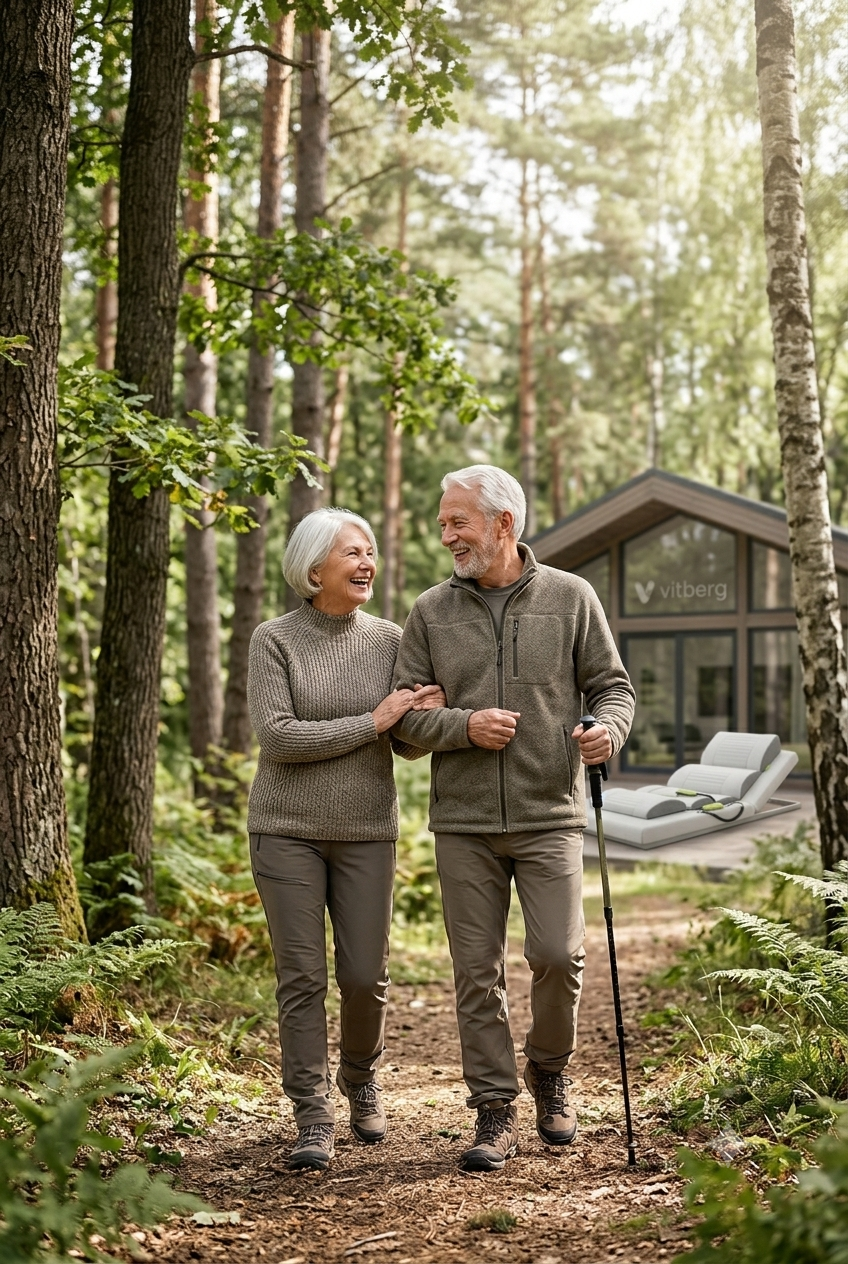
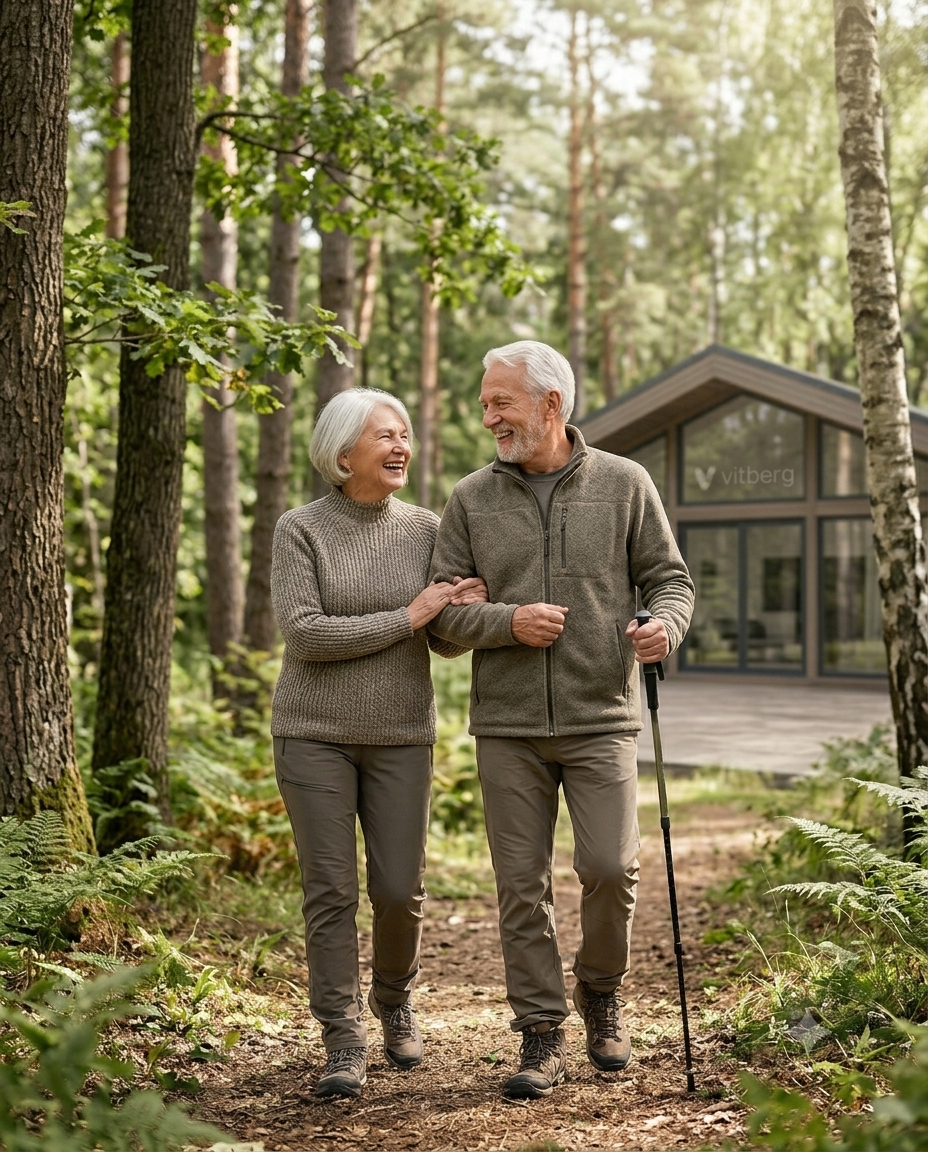
add images

diff --git a/src/components/home/why-section.tsx b/src/components/home/why-section.tsx
@@ -1,3 +1,4 @@
+import Image from "next/image";
 import {
   Award,
   BadgeCheck,
@@ -24,12 +25,14 @@ export function WhySection() {
   return (
     <section id="dlaczego-warto" className="py-16 md:py-20">
       <div className="mx-auto grid max-w-6xl items-center gap-12 px-4 lg:grid-cols-2 lg:px-6">
-        <div className="relative aspect-[4/5] overflow-hidden rounded-3xl bg-secondary ring-1 ring-primary/20">
-          <div className="absolute inset-0 flex items-center justify-center bg-gradient-to-br from-secondary to-primary/10">
-            <p className="max-w-xs px-6 text-center text-base font-medium text-muted-foreground">
-              Zdjęcie: aktywna para seniorów ciesząca się życiem
-            </p>
-          </div>
+        <div className="relative aspect-4/5 overflow-hidden rounded-xl bg-secondary ring-1 ring-primary/20">
+          <Image
+            src="/images/active_seniors.png"
+            alt="Aktywna para seniorów ciesząca się życiem"
+            fill
+            sizes="(max-width: 1024px) 100vw, 528px"
+            className="object-cover"
+          />
         </div>
 
         <div>

diff --git a/src/components/home/hero-section.tsx b/src/components/home/hero-section.tsx
@@ -26,10 +26,10 @@ export function HeroSection() {
       <div className="relative z-10 mx-auto flex min-h-[min(90vh,800px)] max-w-6xl items-center px-4 py-16 lg:px-6 lg:py-24">
         <div className="max-w-xl space-y-6 md:max-w-2xl">
           <h1 className="font-heading text-3xl font-extrabold leading-tight tracking-wide text-primary uppercase md:text-4xl lg:text-5xl">
-            Bezpłatna wibroterapia w Chełmie.
+            Bezpłatna wibroterapia w Chełmie
           </h1>
           <h2>Odzyskaj sprawność i zapomnij o bólu!</h2>
-          <p className="text-lg leading-relaxed text-foreground">
+          <p className="text-lg leading-relaxed text-foreground [text-shadow:0_0_10px_white]">
             Poznaj polską metodę rehabilitacji domowej, z której skorzystały już
             tysiące pacjentów. Odwiedź naszą Poradnię i wypróbuj urządzenia
             Vitberg RS2 zupełnie za darmo.

diff --git a/src/components/home/programs-section.tsx b/src/components/home/programs-section.tsx
@@ -39,7 +39,7 @@ export function ProgramsSection() {
                 className="flex flex-col border-2 border-primary/30 shadow-md transition-shadow hover:shadow-lg"
               >
                 <CardHeader className="items-center text-center">
-                  <div className="mb-2 flex size-14 items-center justify-center rounded-2xl bg-secondary text-primary">
+                  <div className="mb-2 flex size-14 items-center justify-center rounded-xl bg-secondary text-primary">
                     <Icon className="size-7" aria-hidden />
                   </div>
                   <CardTitle className="font-heading text-lg font-bold text-primary">

diff --git a/src/components/home/visit-steps-section.tsx b/src/components/home/visit-steps-section.tsx
@@ -14,7 +14,7 @@ export function VisitStepsSection() {
           {visitSteps.map((step) => (
             <li
               key={step.step}
-              className="relative rounded-2xl border-2 border-primary/20 bg-card p-6 shadow-sm"
+              className="relative rounded-xl border-2 border-primary/20 bg-card p-6 shadow-sm"
             >
               <span className="mb-4 flex size-10 items-center justify-center rounded-full bg-primary text-lg font-bold text-primary-foreground">
                 {step.step}